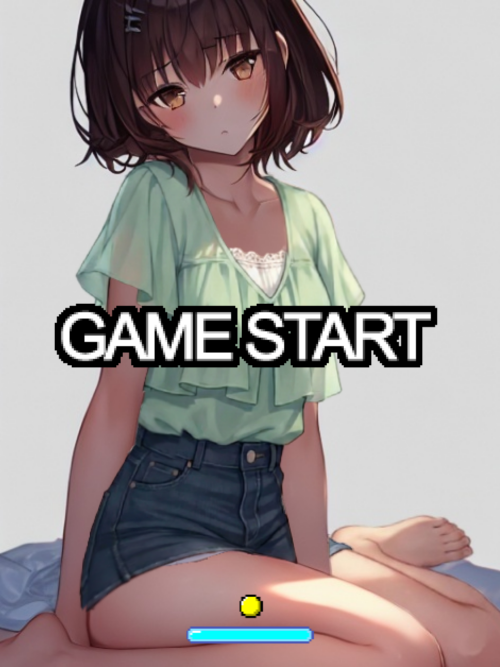
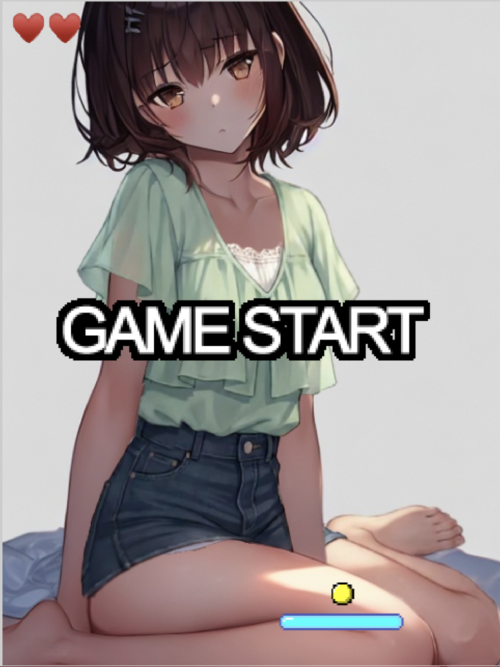
update GAME JS v1.02

diff --git a/bakuretublock202.js b/bakuretublock202.js
@@ -3,6 +3,9 @@
  * https://bakuretuken.com/block/
  */
 
+if (typeof BLOCK_GAME_LIFE == 'undefined') {
+    var BLOCK_GAME_LIFE = 3;
+}
 if (typeof BLOCK_GAME_MIN_BLOCK_PIXEL == 'undefined') {
     if (BLOCK_GAME_BLOCK_SIZE == 32) {
         var BLOCK_GAME_MIN_BLOCK_PIXEL = 24;
@@ -21,11 +24,10 @@ if (BLOCK_GAME_HEIGHT % BLOCK_GAME_BLOCK_SIZE != 0) {
 
 enchant();
 var game = new Game(BLOCK_GAME_WIDTH, BLOCK_GAME_HEIGHT);
-game.preload("block_image_front1.png", "block_image_front2.png", "block_image_back.jpg", "block_image_win.jpg", "block_icon_menu.png", "block_icon_boll.png", "block_icon_panel.png");
+game.preload("block_image_front1.png", "block_image_front2.png", "block_image_back.jpg", "block_image_win.jpg", "block_icon_menu.png", "block_icon_boll.png", "block_icon_panel.png", "block_icon_life.png");
 game.fps = BLOCK_GAME_FPS;
 game.mode = 0; // WAIT FIRST START
-
-game.lifeLabel = new Label();
+game.lives = BLOCK_GAME_LIFE; // 残機数
 
 var scene = new Scene();
 var imgFront1 = new Image();
@@ -63,6 +65,7 @@ StartLabelSprite = Class.create(Sprite,
     {
         if (game.mode == 0) gameStart();
         if (game.mode == 9 || game.mode == 10) gameRestart();
+        if (game.mode == 11) gameContinue(); // 残機がある場合の継続
     }
 });
 
@@ -90,7 +93,7 @@ SpriteScreen = Class.create(Sprite,
         game.bar.x = game.bar.x + posDiff;
         if (game.bar.x < 0) game.bar.x = 0;
         if (game.bar.x > BLOCK_GAME_WIDTH - 120) game.bar.x = BLOCK_GAME_WIDTH - 120;
-        if (game.mode == 0) { game.bomb.ox = game.bar.x +  (120 / 2); game.bomb.x = game.bomb.ox -10; }
+        if (game.mode == 0 || game.mode == 11) { game.bomb.ox = game.bar.x +  (120 / 2); game.bomb.x = game.bomb.ox -10; }
         // game.bar.x = e.x - (game.bar.width / 2);
         // if (game.mode == 0) { game.bomb.ox = e.x; game.bomb.x = game.bomb.ox -10; }
     }
@@ -184,7 +187,7 @@ Bomb = Class.create(Sprite,
         }
 
         if (this.oy > BLOCK_GAME_HEIGHT - 10) {
-            gameLose();
+            loseLife();
             return false;
         }
 
@@ -250,6 +253,38 @@ PanelBar = Class.create(Sprite,
     }
 });
 
+// --- LifeDisplay Sprite（残機表示）
+LifeDisplay = Class.create(Sprite,
+{
+    initialize:function()
+    {
+        Sprite.call(this, 200, 30);
+        this.surface = new Surface(200, 30);
+        this.image = this.surface;
+        this.init();
+    },
+    init:function()
+    {
+        this.x = 10;
+        this.y = 10;
+        this.updateDisplay();
+    },
+    updateDisplay:function()
+    {
+        // 画面をクリア
+        var ctx = this.surface.context;
+        ctx.clearRect(0, 0, this.width, this.height);
+
+        // 残機数分のハートマークを描画
+        var heartImage = game.assets["block_icon_life.png"];
+        if (heartImage && heartImage._element) {
+            for (var i = 0; i < game.lives - 1; i++) {
+                ctx.drawImage(heartImage._element, i * 35, 0, 30, 30);
+            }
+        }
+    }
+});
+
 // --- main
 window.onload = function()
 {
@@ -265,6 +300,7 @@ window.onload = function()
 
     game.bomb = new Bomb();
     game.bar = new PanelBar();
+    game.lifeDisplay = new LifeDisplay();
     game.spriteScreen = new SpriteScreen();
 
     // for PC Mouse
@@ -277,13 +313,14 @@ window.onload = function()
         if (game.bar.x < 0) game.bar.x = 0;
         if (game.bar.x > BLOCK_GAME_WIDTH - 120) game.bar.x = BLOCK_GAME_WIDTH - 120;
 
-        if (game.mode == 0) { game.bomb.ox = game.bar.x +  (120 / 2); game.bomb.x = game.bomb.ox -10; }
+        if (game.mode == 0 || game.mode == 11) { game.bomb.ox = game.bar.x +  (120 / 2); game.bomb.x = game.bomb.ox -10; }
     }, false);
     document.getElementById("enchant-stage").addEventListener("click", function(e)
     {
         if (e.pageY < 150) return;
         if (game.mode == 0) gameStart();
         if (game.mode == 9) gameRestart();
+        if (game.mode == 11) gameContinue(); // 残機がある場合の継続
     }, false);
 
     initGame(imgFront1);
@@ -295,6 +332,7 @@ window.onload = function()
     scene.addChild(game.restart);
     scene.addChild(game.bar);
     scene.addChild(game.bomb);
+    scene.addChild(game.lifeDisplay);
     game.replaceScene(scene);
 
     }; // End of game.onload
@@ -359,6 +397,39 @@ function gameStart()
     game.mode = 1; // GAME NOW
 };
 
+function gameContinue()
+{
+    game.restart.y = -100; // HIDE
+    // ボールに移動量
+    game.bomb.vy = BLOCK_GAME_BALL_SPEED;
+    game.bomb.vx = BLOCK_GAME_BALL_SPEED;
+    game.mode = 1; // GAME NOW
+};
+
+function loseLife()
+{
+    game.lives--;
+    game.lifeDisplay.updateDisplay();
+
+    if (game.lives <= 0) {
+        gameLose();
+    } else {
+        // 残機がある場合はボールをリセットして「START」表示
+        game.bomb.init();
+        // 反射板にボールを追従させる
+        game.bomb.vx = 0;
+        game.bomb.vy = 0;
+        game.bomb.ox = game.bar.x + (120 / 2);
+        game.bomb.x = game.bomb.ox -10;
+        game.bomb.oy = BLOCK_GAME_HEIGHT - BLOCK_BAR_MARGIN_BOTTOM - 20;
+        game.bomb.y = game.bomb.oy - 10;
+        game.restart.x = (BLOCK_GAME_WIDTH/2) - (game.restart.width/2);
+        game.restart.y = (BLOCK_GAME_HEIGHT/2) - (game.restart.height/2);
+        game.restart.frame = 2; // 3フレーム目の「START」画像
+        game.mode = 11; // GAME CONTINUE（継続待ち）
+    }
+};
+
 function gameLose()
 {
     game.restart.x = (BLOCK_GAME_WIDTH/2) - (game.restart.width/2);
@@ -402,9 +473,11 @@ function gameRestart()
 {
     initGame(imgFront1);
 
+    game.lives = BLOCK_GAME_LIFE; // 残機をリセット
     game.restart.init();
     game.bomb.init();
     game.bar.init();
+    game.lifeDisplay.updateDisplay();
 
     // gameStart();
     game.mode = 0; // WAIT GAME

diff --git a/index.html b/index.html
@@ -11,6 +11,7 @@
 <script>
 var BLOCK_GAME_WIDTH = 480; // ゲーム画面幅（ブロック幅の倍数のみ設定可能）
 var BLOCK_GAME_HEIGHT = 640; // ゲーム画面高さ（ブロック幅の倍数のみ設定可能）
+var BLOCK_GAME_LIFE = 3; // ライフ数
 var BLOCK_GAME_FPS = 24; // フレームレート
 var BLOCK_GAME_BALL_SPEED = 10; // ボールの速度
 var BLOCK_BAR_MARGIN_BOTTOM = 50; // 画面下からの反射パネルの高さ
@@ -27,8 +28,7 @@ if(userAgent.indexOf("iphone") == -1 && userAgent.indexOf("android") == -1) {
 </script>
 </div>
 
-<script src="bakuretublock201.min.js"></script>
-<!-- <script src="bakuretublock201.js"></script> -->
+<script src="bakuretublock202.js"></script>
 
 </body>
 </html>

diff --git a/README.md b/README.md
@@ -27,13 +27,13 @@ PC、スマートフォンの両方でゲームが遊べます。<br />
 
 | ファイル名                | 説明                       |
 |---------------------------|----------------------------|
-| bakuretublock200.js       | ゲーム本体                 |
-| bakuretublock201.min.js   | ゲーム本体(圧縮版)          |
+| bakuretublock202.js       | ゲーム本体                 |
 | enchant.min.js            | enchant.jsゲームエンジン   |
 | index.html                | ゲーム起動用HTML           |
 | block_icon_boll.png       | ボール画像（44x22）        |
 | block_icon_menu.png       | タイトル画像（512x256）    |
 | block_icon_panel.png      | 反射パネル画像（120x32）   |
+| block_icon_life.png      | ライフ表示画像（30x30）   |
 | block_image_back.jpg      | 背景画像（480x640）        |
 | block_image_front1.png     | ブロック画像1（480x640, 透明PNG）|
 | block_image_front2.png     | ブロック画像2（480x640, 透明PNG）|
@@ -70,6 +70,7 @@ var BLOCK_GAME_BLOCK_SIZE = 32;     // ブロックサイズ（16 or 32）
 ```js
 var BLOCK_GAME_WIDTH = 480; // ゲーム画面幅（ブロック幅の倍数のみ設定可能）
 var BLOCK_GAME_HEIGHT = 640; // ゲーム画面高さ（ブロック幅の倍数のみ設定可能）
+var BLOCK_GAME_LIFE = 3; // ライフ数（画面左上に残りライフ数が表示されます）
 var BLOCK_GAME_FPS = 24; // フレームレート
 var BLOCK_GAME_BALL_SPEED = 10; // ボールの速度
 var BLOCK_BAR_MARGIN_BOTTOM = 80; // 画面下からの反射パネルの高さ
@@ -81,13 +82,12 @@ var BLOCK_GAME_MIN_BLOCK_PIXEL = 100; // ブロック化最小ピクセル数（
 
 ## ゲームプログラムの改造
 
-`index.html`の読み込みJSを`bakuretublock201.min.js`から下記に変更してください
+`index.html`で読み込んでいる JSプログラム `bakuretublock202.js`を改造してください
 
 ```
-<script src="bakuretublock201.js"></script>
+<script src="bakuretublock202.js"></script>
 ```
 
-`bakuretublock.js`を変更してください。<br />
 `enchant.js`というゲームエンジンを使用しています。
 
 手元のPCでWEBサーバを立ち上げるなどして、サーバ経由で動作確認を行ってください。<br />
